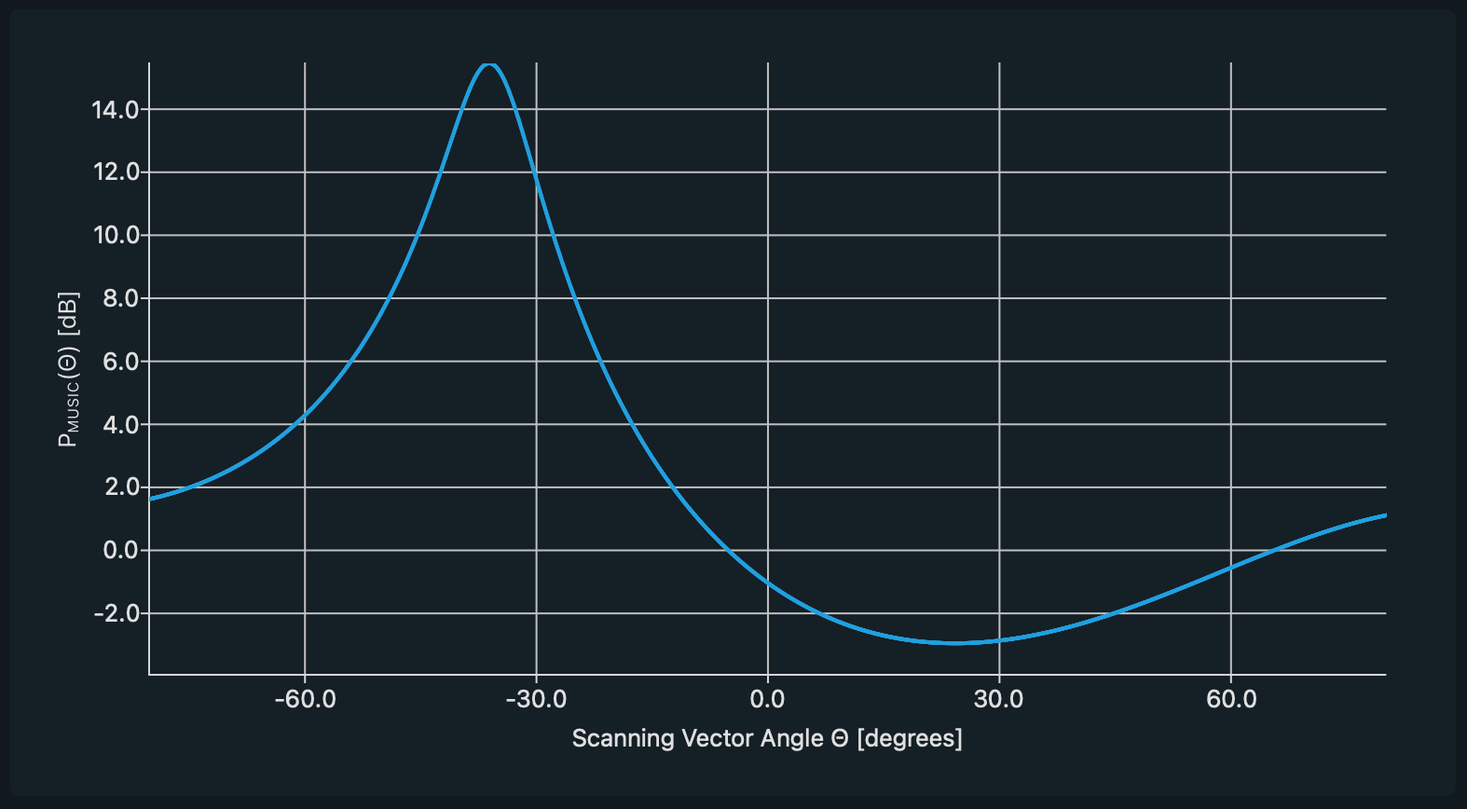
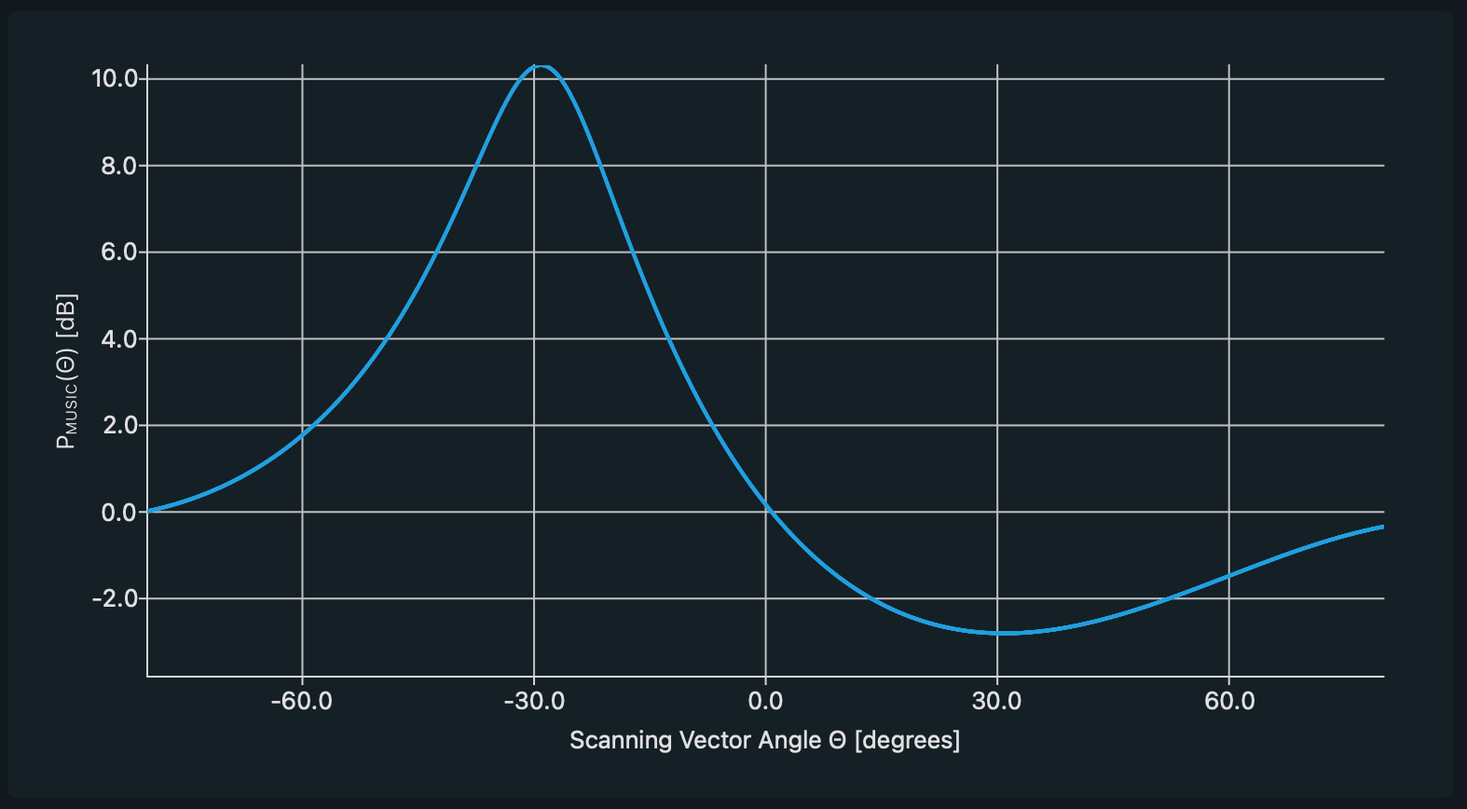
Measurement

Changed region(s): [[0.0311, 0.0622, 0.9651, 0.9021], [0.3736, 0.9021, 0.6537, 0.9332]]

diff --git a/matlab/music_125MHz_M256_1m_-45deg/cfr.m b/matlab/music_125MHz_M256_1m_-45deg/cfr.m
@@ -1,116 +1,116 @@
 % Auto-generated MATLAB script
 clear;
-CH0_317 = [ ...
-0 + 1i*0, 3.43618 + 1i*2.28719, 3.46379 + 1i*2.24283, 3.49051 + 1i*2.19794, 3.51634 + 1i*2.15253,  ...
-3.54126 + 1i*2.10662, 3.56527 + 1i*2.06023, 3.58834 + 1i*2.01338, 3.61047 + 1i*1.96609, 3.63165 + 1i*1.91839,  ...
-3.65186 + 1i*1.87028, 3.6711 + 1i*1.8218, 3.68935 + 1i*1.77295, 3.70661 + 1i*1.72377, 3.72287 + 1i*1.67428,  ...
-3.73811 + 1i*1.62449, 3.75233 + 1i*1.57443, 3.76552 + 1i*1.52411, 3.77767 + 1i*1.47357, 3.78877 + 1i*1.42282,  ...
-3.79881 + 1i*1.37189, 3.8078 + 1i*1.3208, 3.81571 + 1i*1.26956, 3.82255 + 1i*1.21821, 3.82831 + 1i*1.16677,  ...
-3.83298 + 1i*1.11526, 3.83655 + 1i*1.0637, 3.83902 + 1i*1.01213, 3.84039 + 1i*0.960551, 3.84066 + 1i*0.909003,  ...
-3.8398 + 1i*0.857505, 3.83784 + 1i*0.806083, 3.83475 + 1i*0.754762, 0 + 1i*0, 0 + 1i*0,  ...
-0 + 1i*0, 0 + 1i*0, 0 + 1i*0, 0 + 1i*0, 0 + 1i*0,  ...
-0 + 1i*0, 0 + 1i*0, 0 + 1i*0, 0 + 1i*0, 0 + 1i*0,  ...
-0 + 1i*0, 0 + 1i*0, 0 + 1i*0, 0 + 1i*0, 0 + 1i*0,  ...
-0 + 1i*0, 0 + 1i*0, 0 + 1i*0, 3.50944 + 1i*-0.253943, 3.48169 + 1i*-0.296423,  ...
-3.45286 + 1i*-0.338185, 3.42296 + 1i*-0.379202, 3.39199 + 1i*-0.419444, 3.35997 + 1i*-0.458882, 3.3269 + 1i*-0.497488,  ...
-3.2928 + 1i*-0.535233, 3.25767 + 1i*-0.572088, 3.22152 + 1i*-0.608024, 3.18437 + 1i*-0.643012, 3.14623 + 1i*-0.677023,  ...
-3.10711 + 1i*-0.710027, 3.06702 + 1i*-0.741995, 3.02599 + 1i*-0.772899, 2.98401 + 1i*-0.802708, 2.94112 + 1i*-0.831394,  ...
-2.89732 + 1i*-0.858927, 2.85263 + 1i*-0.885278, 2.80707 + 1i*-0.910417, 2.76065 + 1i*-0.934316, 2.7134 + 1i*-0.956946,  ...
-2.66534 + 1i*-0.978276, 2.61647 + 1i*-0.998278, 2.56683 + 1i*-1.01692, 2.51644 + 1i*-1.03418, 2.46531 + 1i*-1.05002,  ...
-2.41348 + 1i*-1.06442, 2.36096 + 1i*-1.07735, 2.30777 + 1i*-1.08878, 2.25395 + 1i*-1.09867, 2.19952 + 1i*-1.10701,  ...
-2.1445 + 1i*-1.11377, 2.08893 + 1i*-1.11891, 2.03283 + 1i*-1.1224, 1.97622 + 1i*-1.12423, 1.91915 + 1i*-1.12436,  ...
-1.86163 + 1i*-1.12277, 1.80371 + 1i*-1.11943, 1.74541 + 1i*-1.11431, 1.68676 + 1i*-1.10739, 1.6278 + 1i*-1.09864,  ...
-1.56856 + 1i*-1.08804, 1.50909 + 1i*-1.07556, 1.44941 + 1i*-1.06117, 1.38955 + 1i*-1.04485, 1.32957 + 1i*-1.02658,  ...
-1.2695 + 1i*-1.00633, 1.20937 + 1i*-0.984078, 1.14923 + 1i*-0.959804, 0 + 1i*0, 0 + 1i*0,  ...
+CH0_315 = [ ...
 0 + 1i*0, 0 + 1i*0, 0 + 1i*0, 0 + 1i*0, 0 + 1i*0,  ...
 0 + 1i*0, 0 + 1i*0, 0 + 1i*0, 0 + 1i*0, 0 + 1i*0,  ...
 0 + 1i*0, 0 + 1i*0, 0 + 1i*0, 0 + 1i*0, 0 + 1i*0,  ...
 0 + 1i*0, 0 + 1i*0, 0 + 1i*0, 0 + 1i*0, 0 + 1i*0,  ...
 0 + 1i*0, 0 + 1i*0, 0 + 1i*0, 0 + 1i*0, 0 + 1i*0,  ...
+0 + 1i*0, 1.89965 + 1i*-0.170904, 1.95717 + 1i*-0.16473, 2.01372 + 1i*-0.157836, 2.06931 + 1i*-0.150243,  ...
+2.12393 + 1i*-0.141967, 2.17761 + 1i*-0.133026, 2.23033 + 1i*-0.123438, 2.28211 + 1i*-0.11322, 2.33296 + 1i*-0.10239,  ...
+2.38287 + 1i*-0.0909629, 2.43186 + 1i*-0.0789564, 2.47992 + 1i*-0.0663863, 2.52708 + 1i*-0.0532686, 2.57332 + 1i*-0.0396191,  ...
+2.61866 + 1i*-0.0254531, 2.66311 + 1i*-0.0107858, 2.70667 + 1i*0.00436768, 2.74934 + 1i*0.0199928, 2.79114 + 1i*0.036075,  ...
+2.83207 + 1i*0.0526, 2.87213 + 1i*0.0695538, 2.91133 + 1i*0.0869226, 2.94969 + 1i*0.104693, 2.9872 + 1i*0.122851,  ...
+3.02386 + 1i*0.141385, 3.0597 + 1i*0.16028, 3.09472 + 1i*0.179525, 3.12891 + 1i*0.199106, 3.16229 + 1i*0.219012,  ...
+3.19486 + 1i*0.239231, 3.22664 + 1i*0.25975, 3.25762 + 1i*0.280559, 3.28782 + 1i*0.301644, 3.31724 + 1i*0.322996,  ...
+3.34588 + 1i*0.344603, 3.37376 + 1i*0.366453, 3.40088 + 1i*0.388537, 3.42724 + 1i*0.410844, 3.45286 + 1i*0.433363,  ...
+3.47773 + 1i*0.456085, 3.50188 + 1i*0.478998, 3.52529 + 1i*0.502093, 3.54798 + 1i*0.525361, 3.56996 + 1i*0.548792,  ...
+3.59123 + 1i*0.572376, 3.6118 + 1i*0.596104, 3.63166 + 1i*0.619967, 3.65084 + 1i*0.643957, 3.66934 + 1i*0.668063,  ...
+3.68716 + 1i*0.692278, 3.7043 + 1i*0.716593, 3.72078 + 1i*0.740999, 3.7366 + 1i*0.765489, 3.75176 + 1i*0.790053,  ...
+3.76628 + 1i*0.814685, 3.78016 + 1i*0.839375, 3.79339 + 1i*0.864117, 3.806 + 1i*0.888902, 3.81798 + 1i*0.913723,  ...
+3.82934 + 1i*0.938572, 3.84009 + 1i*0.963442, 3.85023 + 1i*0.988325, 3.85977 + 1i*1.01322, 3.8687 + 1i*1.0381,  ...
+3.87705 + 1i*1.06299, 3.8848 + 1i*1.08785, 3.89198 + 1i*1.1127, 3.89858 + 1i*1.13751, 3.9046 + 1i*1.1623,  ...
+3.91006 + 1i*1.18704, 3.91495 + 1i*1.21173, 3.91929 + 1i*1.23637, 3.92308 + 1i*1.26094, 3.92631 + 1i*1.28545,  ...
+3.92901 + 1i*1.30988, 3.93116 + 1i*1.33424, 3.93278 + 1i*1.35851, 3.93387 + 1i*1.38268, 3.93443 + 1i*1.40676,  ...
+3.93447 + 1i*1.43073, 3.934 + 1i*1.45459, 3.93301 + 1i*1.47833, 3.93151 + 1i*1.50195, 3.92951 + 1i*1.52544,  ...
+3.92701 + 1i*1.5488, 3.92401 + 1i*1.57202, 3.92051 + 1i*1.59509, 3.91653 + 1i*1.61801, 3.91206 + 1i*1.64076,  ...
+3.90711 + 1i*1.66336, 3.90168 + 1i*1.68578, 3.89577 + 1i*1.70803, 3.8894 + 1i*1.7301, 3.88255 + 1i*1.75198,  ...
+3.87524 + 1i*1.77367, 3.86747 + 1i*1.79515, 3.85924 + 1i*1.81643, 3.85055 + 1i*1.83751, 3.84141 + 1i*1.85836,  ...
+3.83182 + 1i*1.87899, 3.82179 + 1i*1.89939, 3.81131 + 1i*1.91956, 0 + 1i*0, 3.78903 + 1i*1.95917,  ...
+3.77724 + 1i*1.9786, 3.76501 + 1i*1.99777, 3.75236 + 1i*2.01668, 3.73928 + 1i*2.03531, 3.72577 + 1i*2.05367,  ...
+3.71184 + 1i*2.07174, 3.6975 + 1i*2.08953, 3.68273 + 1i*2.10702, 3.66755 + 1i*2.12421, 3.65196 + 1i*2.14108,  ...
+3.63596 + 1i*2.15765, 3.61955 + 1i*2.17389, 3.60274 + 1i*2.18981, 3.58552 + 1i*2.20539, 3.5679 + 1i*2.22063,  ...
+3.54988 + 1i*2.23552, 3.53147 + 1i*2.25005, 3.51266 + 1i*2.26423, 3.49346 + 1i*2.27803, 3.47387 + 1i*2.29146,  ...
+3.45389 + 1i*2.30451, 3.43353 + 1i*2.31717, 3.41278 + 1i*2.32943, 3.39165 + 1i*2.34129, 3.37014 + 1i*2.35273,  ...
+3.34825 + 1i*2.36376, 3.32599 + 1i*2.37435, 3.30335 + 1i*2.38452, 3.28034 + 1i*2.39424, 3.25696 + 1i*2.40351,  ...
+3.23322 + 1i*2.41232, 0 + 1i*0, 0 + 1i*0, 0 + 1i*0, 0 + 1i*0,  ...
+0 + 1i*0, 0 + 1i*0, 0 + 1i*0, 0 + 1i*0, 0 + 1i*0,  ...
+0 + 1i*0, 0 + 1i*0, 0 + 1i*0, 0 + 1i*0, 0 + 1i*0,  ...
+0 + 1i*0, 0 + 1i*0, 0 + 1i*0, 0 + 1i*0, 0 + 1i*0,  ...
+0 + 1i*0, 2.65344 + 1i*2.47649, 2.62217 + 1i*2.47302, 2.59058 + 1i*2.46888, 2.55869 + 1i*2.46406,  ...
+2.52648 + 1i*2.45855, 2.49398 + 1i*2.45235, 2.46117 + 1i*2.44543, 2.42806 + 1i*2.43779, 2.39466 + 1i*2.42942,  ...
+2.36097 + 1i*2.4203, 2.32699 + 1i*2.41043, 2.29272 + 1i*2.39979, 2.25818 + 1i*2.38837, 2.22336 + 1i*2.37617,  ...
+2.18827 + 1i*2.36316, 2.15291 + 1i*2.34934, 2.11728 + 1i*2.3347, 2.0814 + 1i*2.31921, 2.04526 + 1i*2.30288,  ...
+2.00887 + 1i*2.28569, 1.97223 + 1i*2.26762, 1.93535 + 1i*2.24867, 1.89823 + 1i*2.22881, 1.86088 + 1i*2.20805,  ...
+1.82331 + 1i*2.18636, 1.78551 + 1i*2.16373, 1.74749 + 1i*2.14015, 1.70927 + 1i*2.1156, 1.67084 + 1i*2.09008,  ...
+1.63221 + 1i*2.06356, 1.59338 + 1i*2.03605, 1.55437 + 1i*2.00751, 1.51518 + 1i*1.97794, 1.47581 + 1i*1.94732,  ...
+1.43627 + 1i*1.91565, 1.39658 + 1i*1.8829, 1.35672 + 1i*1.84906, 1.31673 + 1i*1.81412, 1.27659 + 1i*1.77806,  ...
+1.23631 + 1i*1.74087, 1.19592 + 1i*1.70253, 1.1554 + 1i*1.66303, 1.11478 + 1i*1.62236, 1.07405 + 1i*1.5805,  ...
+1.03324 + 1i*1.53742, 0.992334 + 1i*1.49313, 0.951358 + 1i*1.4476, 0.910314 + 1i*1.40082, 0.869214 + 1i*1.35278,  ...
+0.828066 + 1i*1.30345, 0 + 1i*0, 0 + 1i*0, 0 + 1i*0, 0 + 1i*0,  ...
 0 + 1i*0, 0 + 1i*0, 0 + 1i*0, 0 + 1i*0, 0 + 1i*0,  ...
 0 + 1i*0, 0 + 1i*0, 0 + 1i*0, 0 + 1i*0, 0 + 1i*0,  ...
 0 + 1i*0, 0 + 1i*0, 0 + 1i*0, 0 + 1i*0, 0 + 1i*0,  ...
 0 + 1i*0, 0 + 1i*0, 0 + 1i*0, 0 + 1i*0, 0 + 1i*0,  ...
-0 + 1i*0, 0 + 1i*0, 0 + 1i*0, 0 + 1i*0, -0.521778 + 1i*1.76549,  ...
--0.515887 + 1i*1.82408, -0.508416 + 1i*1.88188, -0.499391 + 1i*1.93889, -0.488843 + 1i*1.99507, -0.4768 + 1i*2.05041,  ...
--0.46329 + 1i*2.1049, -0.448343 + 1i*2.15851, -0.431987 + 1i*2.21122, -0.414252 + 1i*2.26302, -0.395167 + 1i*2.31389,  ...
--0.374761 + 1i*2.36382, -0.353062 + 1i*2.41278, -0.330103 + 1i*2.46077, -0.305909 + 1i*2.50777, -0.280513 + 1i*2.55377,  ...
--0.253943 + 1i*2.59874, -0.226228 + 1i*2.64269, -0.197399 + 1i*2.68559, -0.167484 + 1i*2.72744, -0.136514 + 1i*2.76822,  ...
--0.104517 + 1i*2.80793, -0.0715244 + 1i*2.84654, -0.0375638 + 1i*2.88406, -0.00266589 + 1i*2.92047, 0.0331406 + 1i*2.95577,  ...
-0.0698266 + 1i*2.98994, 0.107362 + 1i*3.02298, 0.145718 + 1i*3.05489, 0.184866 + 1i*3.08564, 0.224775 + 1i*3.11525,  ...
-0.265419 + 1i*3.14369, 0.306766 + 1i*3.17098, 0.348789 + 1i*3.19709, 0.39146 + 1i*3.22204, 0.434749 + 1i*3.24581,  ...
-0.478628 + 1i*3.2684, 0.523068 + 1i*3.2898, 0.568042 + 1i*3.31003, 0.613522 + 1i*3.32906, 0.659479 + 1i*3.34691,  ...
-0.705885 + 1i*3.36357, 0.752715 + 1i*3.37903, 0.799938 + 1i*3.39331, 0.84753 + 1i*3.4064, 0.895461 + 1i*3.41829,  ...
-0.943706 + 1i*3.429, 0.992237 + 1i*3.43853, 1.04103 + 1i*3.44686, 1.09005 + 1i*3.45402, 1.13928 + 1i*3.45999,  ...
-1.1887 + 1i*3.46479, 1.23826 + 1i*3.46841, 1.28796 + 1i*3.47087, 1.33776 + 1i*3.47216, 1.38764 + 1i*3.47229,  ...
-1.43758 + 1i*3.47126, 1.48754 + 1i*3.46908, 1.53751 + 1i*3.46576, 1.58746 + 1i*3.4613, 1.63736 + 1i*3.4557,  ...
-1.6872 + 1i*3.44898, 1.73694 + 1i*3.44115, 1.78657 + 1i*3.4322, 1.83606 + 1i*3.42215, 1.88539 + 1i*3.411,  ...
-1.93453 + 1i*3.39877, 1.98346 + 1i*3.38546, 2.03217 + 1i*3.37108, 2.08062 + 1i*3.35565, 2.1288 + 1i*3.33916,  ...
-2.17668 + 1i*3.32164, 2.22425 + 1i*3.30308, 2.27148 + 1i*3.28351, 2.31835 + 1i*3.26294, 2.36484 + 1i*3.24136,  ...
-2.41093 + 1i*3.2188, 2.4566 + 1i*3.19527, 2.50183 + 1i*3.17078, 2.54659 + 1i*3.14534, 2.59088 + 1i*3.11896,  ...
-2.63467 + 1i*3.09167, 2.67795 + 1i*3.06346, 2.72068 + 1i*3.03436, 2.76286 + 1i*3.00437, 2.80447 + 1i*2.97352,  ...
-2.84548 + 1i*2.94181, 2.88589 + 1i*2.90927, 2.92567 + 1i*2.8759, 2.96481 + 1i*2.84172, 3.00329 + 1i*2.80674,  ...
-3.04109 + 1i*2.77099, 3.0782 + 1i*2.73448, 3.11459 + 1i*2.69721, 3.15026 + 1i*2.65922, 3.1852 + 1i*2.62051,  ...
-3.21937 + 1i*2.58111, 3.25277 + 1i*2.54102, 3.28539 + 1i*2.50027, 3.31721 + 1i*2.45887, 3.34821 + 1i*2.41685,  ...
-3.37838 + 1i*2.37422];
-CH1_316 = [ ...
-0 + 1i*0, -2.9771 + 1i*1.91708, -2.98896 + 1i*1.90444, -3.00047 + 1i*1.89155, -3.01163 + 1i*1.87841,  ...
--3.02243 + 1i*1.86503, -3.03287 + 1i*1.8514, -3.04294 + 1i*1.83753, -3.05264 + 1i*1.82343, -3.06196 + 1i*1.8091,  ...
--3.0709 + 1i*1.79454, -3.07945 + 1i*1.77976, -3.08761 + 1i*1.76476, -3.09537 + 1i*1.74954, -3.10273 + 1i*1.73411,  ...
--3.10967 + 1i*1.71847, -3.11621 + 1i*1.70263, -3.12232 + 1i*1.68658, -3.128 + 1i*1.67035, -3.13326 + 1i*1.65392,  ...
--3.13807 + 1i*1.6373, -3.14245 + 1i*1.6205, -3.14637 + 1i*1.60353, -3.14984 + 1i*1.58637, -3.15285 + 1i*1.56905,  ...
--3.1554 + 1i*1.55156, -3.15747 + 1i*1.53391, -3.15907 + 1i*1.51611, -3.16019 + 1i*1.49815, -3.16081 + 1i*1.48005,  ...
--3.16094 + 1i*1.4618, -3.16057 + 1i*1.44342, -3.15969 + 1i*1.4249, 0 + 1i*0, 0 + 1i*0,  ...
-0 + 1i*0, 0 + 1i*0, 0 + 1i*0, 0 + 1i*0, 0 + 1i*0,  ...
-0 + 1i*0, 0 + 1i*0, 0 + 1i*0, 0 + 1i*0, 0 + 1i*0,  ...
-0 + 1i*0, 0 + 1i*0, 0 + 1i*0, 0 + 1i*0, 0 + 1i*0,  ...
-0 + 1i*0, 0 + 1i*0, 0 + 1i*0, -3.01301 + 1i*1.01466, -2.99937 + 1i*0.994584,  ...
--2.98509 + 1i*0.974503, -2.97014 + 1i*0.954424, -2.95452 + 1i*0.934355, -2.93823 + 1i*0.914302, -2.92126 + 1i*0.894273,  ...
--2.9036 + 1i*0.874272, -2.88525 + 1i*0.854308, -2.86619 + 1i*0.834386, -2.84643 + 1i*0.814516, -2.82594 + 1i*0.794702,  ...
--2.80474 + 1i*0.774952, -2.78281 + 1i*0.755273, -2.76014 + 1i*0.735671, -2.73673 + 1i*0.716156, -2.71257 + 1i*0.696733,  ...
--2.68765 + 1i*0.677409, -2.66196 + 1i*0.658194, -2.63551 + 1i*0.639092, -2.60828 + 1i*0.620113, -2.58026 + 1i*0.601263,  ...
--2.55146 + 1i*0.582551, -2.52185 + 1i*0.563983, -2.49144 + 1i*0.545568, -2.46021 + 1i*0.527314, -2.42817 + 1i*0.509227,  ...
--2.3953 + 1i*0.491316, -2.36159 + 1i*0.473588, -2.32705 + 1i*0.456054, -2.29165 + 1i*0.438717, -2.2554 + 1i*0.421588,  ...
--2.21829 + 1i*0.404676, -2.18031 + 1i*0.387987, -2.14145 + 1i*0.37153, -2.10171 + 1i*0.355312, -2.06108 + 1i*0.339343,  ...
--2.01955 + 1i*0.32363, -1.97712 + 1i*0.308181, -1.93377 + 1i*0.293005, -1.88951 + 1i*0.278109, -1.84432 + 1i*0.263502,  ...
--1.79819 + 1i*0.249194, -1.75113 + 1i*0.235191, -1.70311 + 1i*0.221501, -1.65415 + 1i*0.208135, -1.60421 + 1i*0.195098,  ...
--1.55331 + 1i*0.182399, -1.50143 + 1i*0.170049, -1.44857 + 1i*0.158053, 0 + 1i*0, 0 + 1i*0,  ...
-0 + 1i*0, 0 + 1i*0, 0 + 1i*0, 0 + 1i*0, 0 + 1i*0,  ...
-0 + 1i*0, 0 + 1i*0, 0 + 1i*0, 0 + 1i*0, 0 + 1i*0,  ...
+0 + 1i*0];
+CH1_314 = [ ...
 0 + 1i*0, 0 + 1i*0, 0 + 1i*0, 0 + 1i*0, 0 + 1i*0,  ...
 0 + 1i*0, 0 + 1i*0, 0 + 1i*0, 0 + 1i*0, 0 + 1i*0,  ...
 0 + 1i*0, 0 + 1i*0, 0 + 1i*0, 0 + 1i*0, 0 + 1i*0,  ...
 0 + 1i*0, 0 + 1i*0, 0 + 1i*0, 0 + 1i*0, 0 + 1i*0,  ...
 0 + 1i*0, 0 + 1i*0, 0 + 1i*0, 0 + 1i*0, 0 + 1i*0,  ...
+0 + 1i*0, -0.311347 + 1i*1.1453, -0.321826 + 1i*1.17817, -0.332264 + 1i*1.21052, -0.342661 + 1i*1.24236,  ...
+-0.353018 + 1i*1.2737, -0.363334 + 1i*1.30454, -0.373609 + 1i*1.33489, -0.383844 + 1i*1.36476, -0.394038 + 1i*1.39414,  ...
+-0.404192 + 1i*1.42304, -0.414305 + 1i*1.45147, -0.424377 + 1i*1.47944, -0.434407 + 1i*1.50694, -0.444395 + 1i*1.53398,  ...
+-0.454342 + 1i*1.56058, -0.464247 + 1i*1.58672, -0.474109 + 1i*1.61242, -0.483928 + 1i*1.63768, -0.493704 + 1i*1.66251,  ...
+-0.503435 + 1i*1.68691, -0.513123 + 1i*1.71088, -0.522765 + 1i*1.73443, -0.532362 + 1i*1.75757, -0.541913 + 1i*1.78029,  ...
+-0.551418 + 1i*1.80261, -0.560875 + 1i*1.82452, -0.570285 + 1i*1.84604, -0.579646 + 1i*1.86716, -0.588959 + 1i*1.88788,  ...
+-0.598221 + 1i*1.90823, -0.607433 + 1i*1.92818, -0.616594 + 1i*1.94776, -0.625704 + 1i*1.96697, -0.63476 + 1i*1.9858,  ...
+-0.643764 + 1i*2.00426, -0.652713 + 1i*2.02236, -0.661607 + 1i*2.0401, -0.670447 + 1i*2.05749, -0.679229 + 1i*2.07452,  ...
+-0.687955 + 1i*2.0912, -0.696622 + 1i*2.10753, -0.705231 + 1i*2.12352, -0.71378 + 1i*2.13918, -0.722269 + 1i*2.15449,  ...
+-0.730696 + 1i*2.16948, -0.739062 + 1i*2.18413, -0.747364 + 1i*2.19845, -0.755602 + 1i*2.21246, -0.763776 + 1i*2.22614,  ...
+-0.771884 + 1i*2.2395, -0.779926 + 1i*2.25255, -0.787901 + 1i*2.26529, -0.795807 + 1i*2.27772, -0.803644 + 1i*2.28984,  ...
+-0.811411 + 1i*2.30166, -0.819108 + 1i*2.31317, -0.826732 + 1i*2.32439, -0.834284 + 1i*2.33531, -0.841763 + 1i*2.34594,  ...
+-0.849166 + 1i*2.35628, -0.856495 + 1i*2.36632, -0.863747 + 1i*2.37608, -0.870922 + 1i*2.38556, -0.878019 + 1i*2.39475,  ...
+-0.885036 + 1i*2.40367, -0.891974 + 1i*2.4123, -0.898831 + 1i*2.42066, -0.905605 + 1i*2.42875, -0.912297 + 1i*2.43656,  ...
+-0.918905 + 1i*2.4441, -0.925428 + 1i*2.45137, -0.931866 + 1i*2.45838, -0.938217 + 1i*2.46512, -0.94448 + 1i*2.47159,  ...
+-0.950655 + 1i*2.47781, -0.95674 + 1i*2.48376, -0.962735 + 1i*2.48945, -0.968638 + 1i*2.49489, -0.974449 + 1i*2.50006,  ...
+-0.980167 + 1i*2.50498, -0.98579 + 1i*2.50965, -0.991317 + 1i*2.51407, -0.996748 + 1i*2.51823, -1.00208 + 1i*2.52214,  ...
+-1.00732 + 1i*2.5258, -1.01245 + 1i*2.52921, -1.01749 + 1i*2.53237, -1.02242 + 1i*2.53528, -1.02725 + 1i*2.53795,  ...
+-1.03198 + 1i*2.54036, -1.0366 + 1i*2.54254, -1.04112 + 1i*2.54447, -1.04553 + 1i*2.54615, -1.04983 + 1i*2.54758,  ...
+-1.05403 + 1i*2.54878, -1.05811 + 1i*2.54973, -1.06209 + 1i*2.55043, -1.06595 + 1i*2.55089, -1.06969 + 1i*2.55111,  ...
+-1.07333 + 1i*2.55109, -1.07685 + 1i*2.55082, -1.08025 + 1i*2.55031, 0 + 1i*0, -1.0867 + 1i*2.54855,  ...
+-1.08974 + 1i*2.54731, -1.09266 + 1i*2.54582, -1.09546 + 1i*2.54408, -1.09814 + 1i*2.54211, -1.10069 + 1i*2.53988,  ...
+-1.10312 + 1i*2.53741, -1.10542 + 1i*2.53469, -1.10759 + 1i*2.53173, -1.10963 + 1i*2.52852, -1.11154 + 1i*2.52506,  ...
+-1.11332 + 1i*2.52134, -1.11497 + 1i*2.51738, -1.11648 + 1i*2.51317, -1.11785 + 1i*2.5087, -1.11908 + 1i*2.50398,  ...
+-1.12018 + 1i*2.49901, -1.12114 + 1i*2.49378, -1.12195 + 1i*2.48829, -1.12262 + 1i*2.48254, -1.12315 + 1i*2.47654,  ...
+-1.12353 + 1i*2.47027, -1.12377 + 1i*2.46374, -1.12385 + 1i*2.45694, -1.12379 + 1i*2.44988, -1.12357 + 1i*2.44256,  ...
+-1.1232 + 1i*2.43496, -1.12267 + 1i*2.42709, -1.12199 + 1i*2.41895, -1.12115 + 1i*2.41054, -1.12015 + 1i*2.40184,  ...
+-1.11899 + 1i*2.39288, 0 + 1i*0, 0 + 1i*0, 0 + 1i*0, 0 + 1i*0,  ...
 0 + 1i*0, 0 + 1i*0, 0 + 1i*0, 0 + 1i*0, 0 + 1i*0,  ...
 0 + 1i*0, 0 + 1i*0, 0 + 1i*0, 0 + 1i*0, 0 + 1i*0,  ...
-0 + 1i*0, 0 + 1i*0, 0 + 1i*0, 0 + 1i*0, -0.670463 + 1i*1.21679,  ...
--0.696485 + 1i*1.24961, -0.722579 + 1i*1.28175, -0.748741 + 1i*1.31322, -0.774965 + 1i*1.34403, -0.801245 + 1i*1.37417,  ...
--0.827576 + 1i*1.40367, -0.853953 + 1i*1.43251, -0.880369 + 1i*1.46072, -0.906821 + 1i*1.48829, -0.933304 + 1i*1.51523,  ...
--0.959812 + 1i*1.54155, -0.98634 + 1i*1.56725, -1.01288 + 1i*1.59234, -1.03944 + 1i*1.61683, -1.066 + 1i*1.64071,  ...
--1.09256 + 1i*1.664, -1.11912 + 1i*1.6867, -1.14568 + 1i*1.70881, -1.17222 + 1i*1.73035, -1.19875 + 1i*1.75131,  ...
--1.22525 + 1i*1.7717, -1.25174 + 1i*1.79153, -1.27819 + 1i*1.8108, -1.30461 + 1i*1.82952, -1.331 + 1i*1.84769,  ...
--1.35734 + 1i*1.86532, -1.38364 + 1i*1.88241, -1.4099 + 1i*1.89897, -1.4361 + 1i*1.915, -1.46224 + 1i*1.9305,  ...
--1.48833 + 1i*1.94549, -1.51435 + 1i*1.95996, -1.5403 + 1i*1.97392, -1.56619 + 1i*1.98738, -1.592 + 1i*2.00034,  ...
--1.61773 + 1i*2.0128, -1.64338 + 1i*2.02477, -1.66894 + 1i*2.03625, -1.69442 + 1i*2.04725, -1.7198 + 1i*2.05777,  ...
--1.74509 + 1i*2.06781, -1.77028 + 1i*2.07738, -1.79536 + 1i*2.08649, -1.82034 + 1i*2.09514, -1.84521 + 1i*2.10332,  ...
--1.86997 + 1i*2.11106, -1.89461 + 1i*2.11834, -1.91913 + 1i*2.12518, -1.94352 + 1i*2.13157, -1.96779 + 1i*2.13753,  ...
--1.99193 + 1i*2.14305, -2.01593 + 1i*2.14814, -2.0398 + 1i*2.1528, -2.06353 + 1i*2.15704, -2.08711 + 1i*2.16086,  ...
--2.11054 + 1i*2.16427, -2.13382 + 1i*2.16726, -2.15695 + 1i*2.16984, -2.17992 + 1i*2.17202, -2.20273 + 1i*2.17379,  ...
--2.22537 + 1i*2.17517, -2.24784 + 1i*2.17615, -2.27015 + 1i*2.17674, -2.29227 + 1i*2.17694, -2.31422 + 1i*2.17676,  ...
--2.33598 + 1i*2.17619, -2.35755 + 1i*2.17525, -2.37894 + 1i*2.17393, -2.40013 + 1i*2.17224, -2.42112 + 1i*2.17019,  ...
--2.44192 + 1i*2.16777, -2.4625 + 1i*2.16498, -2.48288 + 1i*2.16184, -2.50305 + 1i*2.15835, -2.52299 + 1i*2.1545,  ...
--2.54272 + 1i*2.15031, -2.56223 + 1i*2.14577, -2.5815 + 1i*2.14088, -2.60054 + 1i*2.13566, -2.61935 + 1i*2.1301,  ...
--2.63792 + 1i*2.12421, -2.65624 + 1i*2.118, -2.67432 + 1i*2.11145, -2.69214 + 1i*2.10458, -2.70971 + 1i*2.0974,  ...
--2.72701 + 1i*2.08989, -2.74405 + 1i*2.08208, -2.76082 + 1i*2.07395, -2.77732 + 1i*2.06552, -2.79354 + 1i*2.05678,  ...
--2.80948 + 1i*2.04774, -2.82513 + 1i*2.03841, -2.84049 + 1i*2.02878, -2.85556 + 1i*2.01886, -2.87032 + 1i*2.00866,  ...
--2.88479 + 1i*1.99817, -2.89894 + 1i*1.9874, -2.91278 + 1i*1.97635, -2.9263 + 1i*1.96503, -2.9395 + 1i*1.95344,  ...
--2.95237 + 1i*1.94158];
-figure;subplot(2,1,1); hold on;plot(abs(CH0_317), 'DisplayName', 'CH0_317');title('Channel Frequency Response Gain'); legend; grid on;
-subplot(2,1,2); hold on;plot(angle(CH0_317), 'DisplayName', 'CH0_317');title('Channel Frequency Response Phase'); legend; grid on;
-figure;plot(real(CH0_317), imag(CH0_317), '.', 'DisplayName', 'CH0_317'); hold on;title('CFR'); xlabel('Real'); ylabel('Imag'); axis equal; legend; grid on;
+0 + 1i*0, 0 + 1i*0, 0 + 1i*0, 0 + 1i*0, 0 + 1i*0,  ...
+0 + 1i*0, -1.0541 + 1i*2.13613, -1.04891 + 1i*2.12043, -1.04352 + 1i*2.10439, -1.03792 + 1i*2.08801,  ...
+-1.03211 + 1i*2.07128, -1.02608 + 1i*2.05421, -1.01984 + 1i*2.03678, -1.01337 + 1i*2.019, -1.00669 + 1i*2.00086,  ...
+-0.999777 + 1i*1.98236, -0.99264 + 1i*1.9635, -0.985272 + 1i*1.94426, -0.977672 + 1i*1.92466, -0.969836 + 1i*1.90467,  ...
+-0.96176 + 1i*1.88431, -0.953444 + 1i*1.86356, -0.944883 + 1i*1.84243, -0.936073 + 1i*1.8209, -0.927013 + 1i*1.79898,  ...
+-0.9177 + 1i*1.77667, -0.908129 + 1i*1.75394, -0.898298 + 1i*1.73082, -0.888202 + 1i*1.70728, -0.877839 + 1i*1.68333,  ...
+-0.867205 + 1i*1.65895, -0.856297 + 1i*1.63416, -0.845111 + 1i*1.60894, -0.833643 + 1i*1.58329, -0.821889 + 1i*1.5572,  ...
+-0.809846 + 1i*1.53068, -0.79751 + 1i*1.50371, -0.784877 + 1i*1.47629, -0.771942 + 1i*1.44842, -0.758701 + 1i*1.4201,  ...
+-0.745152 + 1i*1.39131, -0.731287 + 1i*1.36206, -0.717105 + 1i*1.33234, -0.702599 + 1i*1.30215, -0.687765 + 1i*1.27148,  ...
+-0.672599 + 1i*1.24032, -0.657096 + 1i*1.20868, -0.64125 + 1i*1.17655, -0.625058 + 1i*1.14393, -0.608514 + 1i*1.1108,  ...
+-0.591612 + 1i*1.07717, -0.574347 + 1i*1.04303, -0.556715 + 1i*1.00838, -0.538709 + 1i*0.973209, -0.520323 + 1i*0.937518,  ...
+-0.501553 + 1i*0.9013, 0 + 1i*0, 0 + 1i*0, 0 + 1i*0, 0 + 1i*0,  ...
+0 + 1i*0, 0 + 1i*0, 0 + 1i*0, 0 + 1i*0, 0 + 1i*0,  ...
+0 + 1i*0, 0 + 1i*0, 0 + 1i*0, 0 + 1i*0, 0 + 1i*0,  ...
+0 + 1i*0, 0 + 1i*0, 0 + 1i*0, 0 + 1i*0, 0 + 1i*0,  ...
+0 + 1i*0, 0 + 1i*0, 0 + 1i*0, 0 + 1i*0, 0 + 1i*0,  ...
+0 + 1i*0];
+figure;subplot(2,1,1); hold on;plot(abs(CH0_315), 'DisplayName', 'CH0_315');title('Channel Frequency Response Gain'); legend; grid on;
+subplot(2,1,2); hold on;plot(angle(CH0_315), 'DisplayName', 'CH0_315');title('Channel Frequency Response Phase'); legend; grid on;
+figure;plot(real(CH0_315), imag(CH0_315), '.', 'DisplayName', 'CH0_315'); hold on;title('CFR'); xlabel('Real'); ylabel('Imag'); axis equal; legend; grid on;
 
-figure;subplot(2,1,1); hold on;plot(abs(CH1_316), 'DisplayName', 'CH1_316');title('Channel Frequency Response Gain'); legend; grid on;
-subplot(2,1,2); hold on;plot(angle(CH1_316), 'DisplayName', 'CH1_316');title('Channel Frequency Response Phase'); legend; grid on;
-figure;plot(real(CH1_316), imag(CH1_316), '.', 'DisplayName', 'CH1_316'); hold on;title('CFR'); xlabel('Real'); ylabel('Imag'); axis equal; legend; grid on;
+figure;subplot(2,1,1); hold on;plot(abs(CH1_314), 'DisplayName', 'CH1_314');title('Channel Frequency Response Gain'); legend; grid on;
+subplot(2,1,2); hold on;plot(angle(CH1_314), 'DisplayName', 'CH1_314');title('Channel Frequency Response Phase'); legend; grid on;
+figure;plot(real(CH1_314), imag(CH1_314), '.', 'DisplayName', 'CH1_314'); hold on;title('CFR'); xlabel('Real'); ylabel('Imag'); axis equal; legend; grid on;
 

diff --git a/matlab/music_125MHz_M256_1m_-45deg/cbdata.m b/matlab/music_125MHz_M256_1m_-45deg/cbdata.m
@@ -1,74 +1,74 @@
 % Auto-generated MATLAB script
 clear;
-CH1_316 = [ ...
--0.933448 + 1i*0.015916, -1.26324 + 1i*-0.00823665, -1.56056 + 1i*0.0219347, 1.83787 + 1i*-0.00859956, 0.792558 + 1i*0.00125349,  ...
-1.70273 + 1i*0.0267315, 1.71583 + 1i*-0.0110256, 0.268858 + 1i*0.0193607, -1.10333 + 1i*0.0167737, -0.506767 + 1i*0.00119001,  ...
-0.5762 + 1i*-0.0200778, -1.03175 + 1i*0.00355431, 1.59894 + 1i*-0.0069005, 1.12047 + 1i*0.00343256, -1.56216 + 1i*-0.000444986,  ...
--0.851426 + 1i*0.00456233, -0.940968 + 1i*-0.00507212, -0.901581 + 1i*0.0150796, 1.23981 + 1i*-0.0128632, 0.661917 + 1i*-0.00343107,  ...
--0.759027 + 1i*0.000203852, -0.595141 + 1i*0.017208, -1.5163 + 1i*0.0216452, -0.599117 + 1i*-0.00838239, 1.13616 + 1i*0.000727035,  ...
--1.04312 + 1i*0.0173753, -0.79534 + 1i*0.0144991, 1.21821 + 1i*-0.0213759, 0.486327 + 1i*-0.0210417, -1.13028 + 1i*0.0132425,  ...
--1.423 + 1i*0.0142105, 0.463036 + 1i*-0.00180604, 0.913171 + 1i*-0.00394733, -0.614739 + 1i*-0.000454497, 0.776065 + 1i*-0.0347248,  ...
--1.06651 + 1i*-0.0140395, -1.2038 + 1i*0.00589292, -0.647478 + 1i*-0.0100188, -0.946995 + 1i*-0.0171018, -1.04358 + 1i*0.00156018,  ...
--1.2671 + 1i*-0.0139828, 0.888492 + 1i*-0.00765613, -0.726182 + 1i*0.0130694, 1.16841 + 1i*0.00208116, -0.885279 + 1i*-3.01562e-05,  ...
--1.44301 + 1i*-0.00517448, 1.20572 + 1i*-0.012744, -0.728801 + 1i*-0.0203481, 0.912306 + 1i*-0.0317043, -1.57052 + 1i*-0.00532757,  ...
--0.620778 + 1i*-0.015658, -1.27556 + 1i*0.000272982, 0.724339 + 1i*-0.00900109, 0.618444 + 1i*-0.00750627, 1.36354 + 1i*-0.0155729,  ...
-0.539972 + 1i*0.01632, 1.2399 + 1i*-0.00971464, 0.991684 + 1i*0.00987701, 0.753722 + 1i*0.00871159, -1.05832 + 1i*0.0129237,  ...
-1.31352 + 1i*0.000430696, 0.58721 + 1i*-0.000811722, -1.0975 + 1i*-0.0277148, 0.583503 + 1i*0.000131834, -0.819511 + 1i*0.00923978,  ...
--0.747771 + 1i*0.00978873, -1.48103 + 1i*-0.000843212, 1.04157 + 1i*-0.00027366, 1.31301 + 1i*-0.0153618, -0.781745 + 1i*0.00683251,  ...
-1.01197 + 1i*0.00801568, -0.976268 + 1i*0.011607, -1.20344 + 1i*-0.00694332, -0.826714 + 1i*-0.0162043, -0.95739 + 1i*0.00132009,  ...
-1.19742 + 1i*-0.0216011, -1.06365 + 1i*-0.0110086, 1.31146 + 1i*-0.000131905, -0.806463 + 1i*0.0012436, -1.48036 + 1i*0.00761905,  ...
--0.992229 + 1i*0.00450116, 1.14641 + 1i*0.00513115, -1.13993 + 1i*-0.0123389, -0.868859 + 1i*-0.021708, -1.2751 + 1i*0.00584089,  ...
--1.01479 + 1i*-0.0101289, -1.19284 + 1i*-0.0262241, 0.391704 + 1i*-0.0224133, -1.6095 + 1i*-0.00620668, 0.463427 + 1i*-0.00956852,  ...
-0.995632 + 1i*-0.0183947, -0.971216 + 1i*-0.0015004, -1.02044 + 1i*0.0238943, 1.15521 + 1i*0.00861989, 0.322128 + 1i*0.0124896,  ...
-1.15582 + 1i*0.000246897, 0.904316 + 1i*0.010616, -0.0364078 + 1i*0.0011621, 0.814955 + 1i*0.0133498, 0.613442 + 1i*0.0110705,  ...
--1.04855 + 1i*0.00187168, -1.1392 + 1i*0.00251997, -0.880219 + 1i*-0.00926127, 0.966864 + 1i*0.00968571, -1.21855 + 1i*0.00925496,  ...
-1.53695 + 1i*0.003368, -0.869947 + 1i*0.013525, -1.32051 + 1i*0.0303493, 0.305653 + 1i*0.00840265, 2.17252 + 1i*-0.0183773,  ...
--1.15293 + 1i*0.00576723, -1.10824 + 1i*0.00301404, -0.577303 + 1i*-0.00703569, -1.21094 + 1i*0.0208522, -0.825065 + 1i*0.00520923,  ...
-0.932167 + 1i*-0.0142901, 0.574411 + 1i*-0.00450475, -0.661929 + 1i*0.0200991, 1.08022 + 1i*0.00142087, 1.14004 + 1i*-0.00528355,  ...
-1.54112 + 1i*-0.00801082, -0.678389 + 1i*0.00684556, 0.321596 + 1i*0.00941965, 0.336833 + 1i*0.00444198, -0.581304 + 1i*0.00526086,  ...
-0.607896 + 1i*-0.0089123, -0.520879 + 1i*0.0101306, 1.74127 + 1i*0.00189372, 0.986337 + 1i*-0.00356032, 0.532869 + 1i*0.0058618,  ...
-1.07705 + 1i*-0.00460397, -0.653116 + 1i*0.00851562, 1.47899 + 1i*-0.00436027, 1.13822 + 1i*-0.012207, -0.568906 + 1i*0.0110425,  ...
--1.2671 + 1i*0.0303221, -1.07356 + 1i*0.000749782, 1.04963 + 1i*-0.00244629, -0.506488 + 1i*0.0269023, -1.03418 + 1i*0.0254675,  ...
-0.653356 + 1i*0.00688414, -0.315141 + 1i*-0.00641028, 1.34482 + 1i*-0.0135623, -1.43413 + 1i*0.0334439, 1.45291 + 1i*0.00146349,  ...
-0.779999 + 1i*6.45779e-05, 0.676697 + 1i*0.0117992, -1.36012 + 1i*0.0153369, -0.572334 + 1i*-0.0103357, 0.979428 + 1i*0.00912147,  ...
-1.54757 + 1i*-0.0146889, 1.10828 + 1i*0.0013046, -0.844209 + 1i*0.0147524, -0.683961 + 1i*-0.00263132, 1.07796 + 1i*-0.0187431,  ...
--1.74866 + 1i*0.00296436, -0.407625 + 1i*-0.00282428, 0.842159 + 1i*-0.0209631, -1.06458 + 1i*0.0255503, 1.07947 + 1i*0.0034462,  ...
--1.81795 + 1i*0.0156698];
-CH0_317 = [ ...
--0.97072 + 1i*0.0296602, -1.24713 + 1i*-0.0127869, -1.56578 + 1i*0.0183464, 1.89475 + 1i*-0.0223743, 0.820734 + 1i*0.000869738,  ...
-1.69676 + 1i*0.0168136, 1.72017 + 1i*-0.0174822, 0.235826 + 1i*0.022699, -1.12954 + 1i*0.024193, -0.512726 + 1i*-0.00872611,  ...
-0.597072 + 1i*-0.0138958, -1.03506 + 1i*-0.0110022, 1.6092 + 1i*-0.00789178, 1.09959 + 1i*0.00970258, -1.57535 + 1i*-0.00240401,  ...
--0.86481 + 1i*-0.00773079, -0.921767 + 1i*-0.0116301, -0.918193 + 1i*0.0168509, 1.26895 + 1i*-0.0330195, 0.647897 + 1i*0.000207176,  ...
--0.768538 + 1i*-0.00772841, -0.624782 + 1i*0.0138135, -1.52907 + 1i*0.0219985, -0.567633 + 1i*-0.0133751, 1.13694 + 1i*0.00419656,  ...
--1.06984 + 1i*0.0243051, -0.797348 + 1i*0.0129097, 1.25569 + 1i*-0.0188614, 0.474413 + 1i*-0.00731833, -1.14261 + 1i*0.0103972,  ...
--1.43068 + 1i*0.0210827, 0.468525 + 1i*-0.000120886, 0.894002 + 1i*0.0092049, -0.635659 + 1i*0.0147554, 0.779954 + 1i*-0.0274644,  ...
--1.05714 + 1i*-0.00474448, -1.21052 + 1i*0.00220718, -0.652153 + 1i*0.00348922, -0.920084 + 1i*-0.0248954, -1.04378 + 1i*0.00973783,  ...
--1.24856 + 1i*-0.0100261, 0.894023 + 1i*0.0025892, -0.736258 + 1i*0.00576428, 1.14514 + 1i*0.0104758, -0.886294 + 1i*-0.00252555,  ...
--1.40428 + 1i*-0.0139393, 1.19382 + 1i*-0.00025991, -0.706853 + 1i*-0.00981283, 0.92102 + 1i*-0.0210013, -1.5587 + 1i*-0.00126813,  ...
--0.590666 + 1i*-0.0195562, -1.25896 + 1i*0.0133665, 0.733966 + 1i*0.00664136, 0.624367 + 1i*-0.0130254, 1.37451 + 1i*-0.0121516,  ...
-0.491192 + 1i*0.0278269, 1.24529 + 1i*-0.0135871, 0.972689 + 1i*0.0111661, 0.722083 + 1i*0.0138765, -1.07973 + 1i*0.0150195,  ...
-1.29482 + 1i*0.00985545, 0.544074 + 1i*0.0186153, -1.09275 + 1i*-0.0125952, 0.545516 + 1i*0.0105496, -0.864801 + 1i*0.0124187,  ...
--0.76454 + 1i*0.00253326, -1.47403 + 1i*-0.023508, 1.04557 + 1i*0.0138441, 1.32298 + 1i*-0.0139507, -0.837446 + 1i*0.0108793,  ...
-1.0011 + 1i*0.00525077, -1.01821 + 1i*0.0055419, -1.25604 + 1i*-1.017e-06, -0.842015 + 1i*-0.0240883, -0.950292 + 1i*-0.0101868,  ...
-1.21158 + 1i*-0.0109457, -1.07087 + 1i*-0.0353953, 1.29292 + 1i*0.0213429, -0.849528 + 1i*0.00572252, -1.50358 + 1i*0.00272845,  ...
--0.99177 + 1i*-0.0256728, 1.1499 + 1i*0.00615844, -1.14534 + 1i*-0.0210664, -0.867501 + 1i*-0.0292726, -1.30218 + 1i*0.0155678,  ...
--0.993408 + 1i*-0.0161757, -1.1674 + 1i*-0.0370547, 0.405945 + 1i*-0.0275992, -1.58777 + 1i*-0.0105476, 0.491808 + 1i*-0.0334649,  ...
-1.0157 + 1i*-0.00878791, -0.954534 + 1i*-0.0130467, -1.02299 + 1i*0.0188482, 1.1667 + 1i*0.0101221, 0.317219 + 1i*0.0338266,  ...
-1.15693 + 1i*-0.0130243, 0.899657 + 1i*0.0227165, -0.0395645 + 1i*-0.0127068, 0.784753 + 1i*0.0213476, 0.601206 + 1i*0.0105845,  ...
--1.06448 + 1i*-0.00203449, -1.1296 + 1i*0.0123028, -0.864657 + 1i*-0.0106046, 0.950965 + 1i*0.0129097, -1.22092 + 1i*0.0116094,  ...
-1.51788 + 1i*0.00818009, -0.88192 + 1i*0.0116658, -1.32061 + 1i*0.0283596, 0.316175 + 1i*0.0125634, 2.17299 + 1i*-0.0268416,  ...
--1.18999 + 1i*0.0192832, -1.1189 + 1i*-0.000296416, -0.571588 + 1i*0.000240298, -1.21883 + 1i*0.0247452, -0.820185 + 1i*0.00914882,  ...
-0.951717 + 1i*-0.0201645, 0.585098 + 1i*-0.00383007, -0.656736 + 1i*0.0155138, 1.09927 + 1i*-0.00728154, 1.15737 + 1i*-0.0114935,  ...
-1.54662 + 1i*-0.0146376, -0.689556 + 1i*0.0158353, 0.308657 + 1i*0.00918491, 0.331241 + 1i*0.00814464, -0.579473 + 1i*0.0090468,  ...
-0.639579 + 1i*-0.0131799, -0.518502 + 1i*0.0149152, 1.74983 + 1i*-0.01502, 0.994765 + 1i*-0.0130507, 0.520675 + 1i*0.00548888,  ...
-1.09065 + 1i*-0.013472, -0.650836 + 1i*0.00844196, 1.4857 + 1i*-0.0116195, 1.12805 + 1i*-0.0270202, -0.602796 + 1i*0.0261182,  ...
--1.30523 + 1i*0.0379905, -1.06691 + 1i*0.00165763, 1.04166 + 1i*-0.00264729, -0.546778 + 1i*0.0314592, -1.05032 + 1i*0.0223742,  ...
-0.655126 + 1i*0.00701796, -0.316364 + 1i*-0.00783979, 1.3529 + 1i*-0.0306619, -1.46473 + 1i*0.0320123, 1.46286 + 1i*-0.0057981,  ...
-0.771012 + 1i*-0.000741065, 0.646923 + 1i*0.0170749, -1.36992 + 1i*0.00575229, -0.543747 + 1i*-0.0161186, 0.985593 + 1i*-6.78916e-05,  ...
-1.56025 + 1i*-0.0230633, 1.10471 + 1i*-0.00217063, -0.87683 + 1i*0.033746, -0.687779 + 1i*0.0023764, 1.08855 + 1i*-0.0341525,  ...
--1.7456 + 1i*0.00180031, -0.391188 + 1i*-0.00816176, 0.882589 + 1i*-0.0425071, -1.09839 + 1i*0.0287505, 1.06583 + 1i*0.0063406,  ...
--1.8712 + 1i*0.0117875];
-figure;plot(real(CH1_316), imag(CH1_316), '.', 'DisplayName', 'CH1_316'); hold on;
-plot(real(CH0_317), imag(CH0_317), '.', 'DisplayName', 'CH0_317'); hold on;
+CH0_315 = [ ...
+-0.977719 + 1i*0.0283725, -1.25964 + 1i*-0.022713, -1.58619 + 1i*0.0101694, 1.85379 + 1i*-0.00977299, 0.781004 + 1i*0.0189298,  ...
+1.69633 + 1i*0.0301921, 1.72636 + 1i*-0.0148839, 0.257638 + 1i*0.000157196, -1.11931 + 1i*0.00894155, -0.504256 + 1i*-0.013766,  ...
+0.587355 + 1i*-0.0247662, -1.02491 + 1i*-0.000931673, 1.61126 + 1i*0.00594983, 1.10791 + 1i*0.0175677, -1.55718 + 1i*0.00201075,  ...
+-0.851142 + 1i*-0.0312457, -0.925916 + 1i*-0.0144796, -0.921807 + 1i*0.0346706, 1.26961 + 1i*-0.021588, 0.639404 + 1i*0.00579847,  ...
+-0.74893 + 1i*-0.00892752, -0.612519 + 1i*0.00359107, -1.53917 + 1i*0.00781104, -0.593058 + 1i*-0.0154723, 1.12898 + 1i*0.00503031,  ...
+-1.07812 + 1i*0.0113727, -0.800968 + 1i*0.0137867, 1.23536 + 1i*-0.0320143, 0.493263 + 1i*-0.019827, -1.127 + 1i*0.00494356,  ...
+-1.42311 + 1i*0.00537689, 0.469181 + 1i*0.00130522, 0.896228 + 1i*0.00156812, -0.626094 + 1i*0.0268847, 0.806335 + 1i*-0.0441902,  ...
+-1.05199 + 1i*-0.0196892, -1.20517 + 1i*0.0149514, -0.651049 + 1i*0.00203319, -0.925884 + 1i*-0.0246331, -1.05379 + 1i*4.14848e-05,  ...
+-1.25867 + 1i*-0.010556, 0.883601 + 1i*-0.00279137, -0.734148 + 1i*0.015448, 1.15761 + 1i*-0.00295844, -0.890803 + 1i*-0.0177128,  ...
+-1.40838 + 1i*-0.00656772, 1.19059 + 1i*-0.0265521, -0.716534 + 1i*0.0123717, 0.928904 + 1i*-0.0280284, -1.56015 + 1i*-0.0131635,  ...
+-0.60389 + 1i*-0.0287503, -1.2865 + 1i*0.0139187, 0.695902 + 1i*0.00351834, 0.608788 + 1i*-0.00675059, 1.36663 + 1i*-0.0127861,  ...
+0.495322 + 1i*0.00241144, 1.25412 + 1i*-0.0123649, 0.990672 + 1i*0.0164114, 0.739765 + 1i*-0.0118404, -1.06621 + 1i*0.0289775,  ...
+1.31865 + 1i*-0.00904679, 0.555158 + 1i*0.0111891, -1.07538 + 1i*-0.0303884, 0.567992 + 1i*0.00839587, -0.843289 + 1i*0.0258414,  ...
+-0.750918 + 1i*-0.00596187, -1.46522 + 1i*-0.0118263, 1.03807 + 1i*0.00644231, 1.32851 + 1i*-0.0184139, -0.81713 + 1i*0.0196001,  ...
+0.992829 + 1i*-0.0146701, -1.01505 + 1i*0.035589, -1.2342 + 1i*-0.0199487, -0.82445 + 1i*-0.0308056, -0.939884 + 1i*0.00428086,  ...
+1.20812 + 1i*-0.0379673, -1.07606 + 1i*0.000448026, 1.32053 + 1i*0.0131618, -0.83746 + 1i*0.00657426, -1.4812 + 1i*0.0016727,  ...
+-0.981984 + 1i*-0.0312403, 1.15194 + 1i*0.0219268, -1.14288 + 1i*-0.00760278, -0.847359 + 1i*-0.0353531, -1.30254 + 1i*0.00855666,  ...
+-1.01685 + 1i*-0.0316673, -1.18219 + 1i*-0.0197396, 0.395794 + 1i*-0.0204796, -1.61766 + 1i*-0.0143415, 0.481935 + 1i*-0.01348,  ...
+0.985003 + 1i*-0.00367127, -0.974652 + 1i*-0.021549, -1.02766 + 1i*0.0146511, 1.13796 + 1i*0.000992045, 0.282364 + 1i*0.0348287,  ...
+1.15677 + 1i*-0.0072642, 0.898677 + 1i*0.00301772, -0.0327949 + 1i*-0.0147057, 0.804153 + 1i*0.0222436, 0.610165 + 1i*0.0132081,  ...
+-1.05271 + 1i*-0.0302279, -1.1248 + 1i*0.0247663, -0.871321 + 1i*0.00765727, 0.956629 + 1i*-0.000511222, -1.22256 + 1i*0.0450926,  ...
+1.53722 + 1i*0.00492814, -0.87365 + 1i*0.0117305, -1.3119 + 1i*0.0135686, 0.300928 + 1i*0.0153303, 2.16926 + 1i*-0.0133121,  ...
+-1.1599 + 1i*0.0138291, -1.08751 + 1i*-0.0260488, -0.574625 + 1i*-0.0132507, -1.21757 + 1i*0.00976624, -0.822873 + 1i*0.0380808,  ...
+0.924562 + 1i*-0.0217194, 0.575153 + 1i*-0.0331989, -0.669341 + 1i*0.0293276, 1.07691 + 1i*0.00242195, 1.12893 + 1i*0.0138105,  ...
+1.54551 + 1i*-0.0186534, -0.68288 + 1i*0.0164755, 0.319197 + 1i*-0.0172408, 0.333407 + 1i*0.000679838, -0.580197 + 1i*0.0197062,  ...
+0.628432 + 1i*-0.0303713, -0.525147 + 1i*0.0201682, 1.74111 + 1i*-0.00248373, 0.98639 + 1i*0.0101246, 0.528922 + 1i*-0.0138747,  ...
+1.09361 + 1i*-0.0396763, -0.652752 + 1i*0.0265001, 1.48882 + 1i*-0.00259559, 1.14291 + 1i*-0.0121189, -0.566728 + 1i*0.0146175,  ...
+-1.28035 + 1i*0.00758309, -1.06987 + 1i*0.00651443, 1.05134 + 1i*0.0120356, -0.525177 + 1i*0.0172987, -1.03475 + 1i*0.0128415,  ...
+0.638148 + 1i*0.0011953, -0.306547 + 1i*0.0178114, 1.36852 + 1i*-0.0398094, -1.44786 + 1i*0.0283307, 1.44303 + 1i*0.00125568,  ...
+0.776925 + 1i*0.0310474, 0.664739 + 1i*0.0150909, -1.36179 + 1i*-0.00856997, -0.551311 + 1i*-0.0285843, 0.977246 + 1i*0.0102592,  ...
+1.55936 + 1i*-0.017122, 1.1145 + 1i*-0.0159575, -0.883389 + 1i*0.0340268, -0.667222 + 1i*0.0160002, 1.10055 + 1i*-0.0473021,  ...
+-1.74925 + 1i*0.00905707, -0.389033 + 1i*-0.0243035, 0.8753 + 1i*-0.0199899, -1.06863 + 1i*0.0484069, 1.09329 + 1i*-0.011209,  ...
+-1.86689 + 1i*0.0585155];
+CH1_314 = [ ...
+-0.947991 + 1i*0.0344051, -1.2567 + 1i*-0.0198479, -1.51547 + 1i*0.0305805, 1.89754 + 1i*-0.0306458, 0.809957 + 1i*0.0131953,  ...
+1.72647 + 1i*0.0227747, 1.6765 + 1i*-0.0325162, 0.221637 + 1i*0.0108124, -1.12079 + 1i*0.0367101, -0.50025 + 1i*-0.0145175,  ...
+0.558778 + 1i*-0.032285, -1.02185 + 1i*-0.00748874, 1.61777 + 1i*-0.00281282, 1.08816 + 1i*0.00907006, -1.59422 + 1i*0.0105002,  ...
+-0.864262 + 1i*-0.0118106, -0.925086 + 1i*-0.0322711, -0.876982 + 1i*0.0366779, 1.26076 + 1i*-0.0330711, 0.615348 + 1i*-0.00428611,  ...
+-0.784546 + 1i*-0.0175966, -0.602847 + 1i*0.0310026, -1.50216 + 1i*0.030275, -0.554419 + 1i*-0.019527, 1.12902 + 1i*0.0119608,  ...
+-1.06895 + 1i*0.0365342, -0.754322 + 1i*0.0245831, 1.244 + 1i*-0.0443709, 0.446957 + 1i*-0.0170559, -1.14603 + 1i*0.0303879,  ...
+-1.40067 + 1i*0.0317485, 0.495161 + 1i*0.00679466, 0.894405 + 1i*0.0115004, -0.636987 + 1i*0.0354407, 0.748197 + 1i*-0.0424633,  ...
+-1.07051 + 1i*-0.00930603, -1.18406 + 1i*0.0275429, -0.637092 + 1i*0.00419858, -0.94989 + 1i*-0.0385929, -1.02601 + 1i*0.0189776,  ...
+-1.23721 + 1i*-0.0331276, 0.93048 + 1i*0.0128019, -0.699906 + 1i*0.0308831, 1.17953 + 1i*0.00675944, -0.912282 + 1i*-0.0116167,  ...
+-1.39554 + 1i*-0.000926699, 1.21989 + 1i*-0.00953237, -0.715998 + 1i*-0.0195205, 0.913612 + 1i*-0.0249394, -1.55504 + 1i*-0.000752352,  ...
+-0.576685 + 1i*-0.026719, -1.21365 + 1i*0.0200177, 0.775763 + 1i*0.0315471, 0.643373 + 1i*-0.0120147, 1.36557 + 1i*-0.0020595,  ...
+0.508274 + 1i*0.0345448, 1.27774 + 1i*0.000276785, 0.997401 + 1i*0.0227802, 0.721326 + 1i*0.0262799, -1.05884 + 1i*0.0435238,  ...
+1.31145 + 1i*0.00871702, 0.527516 + 1i*0.0405314, -1.13748 + 1i*-0.0365485, 0.579268 + 1i*0.0210499, -0.841181 + 1i*0.0330485,  ...
+-0.745456 + 1i*0.0205458, -1.45353 + 1i*-0.0356957, 1.07314 + 1i*0.0114942, 1.27786 + 1i*-0.0343111, -0.820688 + 1i*0.0276418,  ...
+0.975121 + 1i*0.0186718, -1.00656 + 1i*0.0186931, -1.27638 + 1i*-0.008041, -0.860949 + 1i*-0.00364589, -0.913001 + 1i*0.00553412,  ...
+1.18209 + 1i*-0.0313144, -1.09238 + 1i*0.00339477, 1.2948 + 1i*0.0150609, -0.87328 + 1i*0.0281934, -1.48962 + 1i*0.035765,  ...
+-0.990885 + 1i*-0.0129016, 1.17721 + 1i*0.0258836, -1.18324 + 1i*-0.0180477, -0.878617 + 1i*-0.0239929, -1.28527 + 1i*0.0185826,  ...
+-1.00624 + 1i*-0.0294027, -1.16772 + 1i*-0.0413096, 0.407662 + 1i*-0.0128116, -1.59283 + 1i*-0.00405664, 0.528539 + 1i*-0.0194638,  ...
+1.00462 + 1i*-0.0199564, -0.978188 + 1i*0.00626281, -0.97915 + 1i*0.032542, 1.20044 + 1i*0.0194447, 0.338819 + 1i*0.0418522,  ...
+1.14702 + 1i*-0.00803282, 0.888915 + 1i*0.0173481, -0.0534738 + 1i*-0.00995808, 0.808452 + 1i*0.0259853, 0.586809 + 1i*0.0294146,  ...
+-1.09727 + 1i*-0.00632213, -1.11039 + 1i*0.0260816, -0.893179 + 1i*-0.00600244, 0.963449 + 1i*0.0252111, -1.20749 + 1i*0.0307713,  ...
+1.54018 + 1i*0.0056296, -0.893453 + 1i*0.0155623, -1.29242 + 1i*0.0425937, 0.355454 + 1i*0.0223418, 2.11717 + 1i*-0.0218978,  ...
+-1.21938 + 1i*0.00539035, -1.13793 + 1i*-0.0107392, -0.592186 + 1i*-0.0110308, -1.20171 + 1i*0.0136427, -0.776698 + 1i*0.0333085,  ...
+0.92744 + 1i*-0.015477, 0.587914 + 1i*-0.0223675, -0.617607 + 1i*0.017295, 1.12353 + 1i*0.00370787, 1.13184 + 1i*-0.00715875,  ...
+1.51958 + 1i*-0.0203517, -0.703331 + 1i*0.0173393, 0.311143 + 1i*0.00449359, 0.346867 + 1i*0.00328785, -0.568003 + 1i*0.0116211,  ...
+0.636689 + 1i*-0.0296055, -0.49359 + 1i*0.00438203, 1.77407 + 1i*-0.00629824, 0.970458 + 1i*-0.00990288, 0.491181 + 1i*-0.017533,  ...
+1.06632 + 1i*-0.0287054, -0.642091 + 1i*0.0179366, 1.48436 + 1i*-0.0177135, 1.07925 + 1i*-0.0410688, -0.608438 + 1i*0.017135,  ...
+-1.2813 + 1i*0.0395239, -1.0479 + 1i*0.00281829, 1.03855 + 1i*-0.010192, -0.549365 + 1i*0.0363136, -1.02111 + 1i*0.0313625,  ...
+0.655383 + 1i*0.00170305, -0.303727 + 1i*-0.0306736, 1.32394 + 1i*-0.0477984, -1.44183 + 1i*0.0478807, 1.47255 + 1i*-0.00956689,  ...
+0.789285 + 1i*-0.0107288, 0.65612 + 1i*0.0175137, -1.39053 + 1i*0.0230681, -0.554409 + 1i*-0.0305664, 1.00247 + 1i*-0.00668564,  ...
+1.53469 + 1i*-0.0347364, 1.08414 + 1i*0.000457335, -0.876148 + 1i*0.0509162, -0.662916 + 1i*-0.0102392, 1.05635 + 1i*-0.0605001,  ...
+-1.7677 + 1i*0.0097312, -0.381822 + 1i*-0.0212635, 0.859732 + 1i*-0.0504911, -1.06297 + 1i*0.0392952, 1.08664 + 1i*0.00312227,  ...
+-1.86637 + 1i*0.055154];
+figure;plot(real(CH0_315), imag(CH0_315), '.', 'DisplayName', 'CH0_315'); hold on;
+plot(real(CH1_314), imag(CH1_314), '.', 'DisplayName', 'CH1_314'); hold on;
 title('Received Data'); xlabel('Real'); ylabel('Imag'); axis equal; legend; grid on;
 
